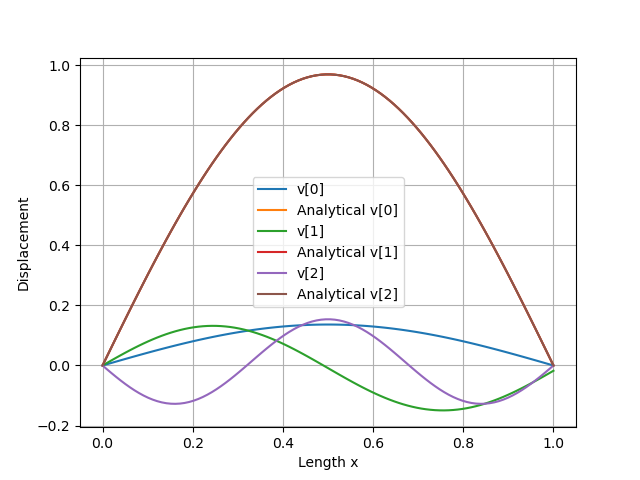
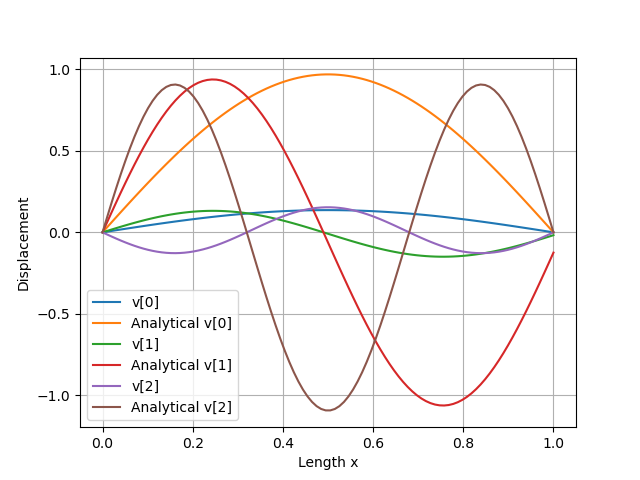
fix plot_last and figures

diff --git a/project_2/plot_last.py b/project_2/plot_last.py
@@ -28,7 +28,6 @@ def magic(filename):
     lambda_ = lambda_[:-1]
 
     lambda_, v = zip(*sorted(zip(lambda_, v))) # sort
-    print(v)
     #print(a)
     N = len(v)
     h = 1/(N+1)
@@ -40,18 +39,8 @@ def magic(filename):
     for i in range(1-1,N):
         v_py.append([])
         for j in range(1,N+1):
-            v_py[i].append(np.sin(j*np.pi/(N + 1)))
-    print(v_py)
+            v_py[i].append(np.sin((i+1)*j*np.pi/(N + 1)))
 
-    """
-    def lowest(a, n): return np.partition(a, n-1)[:n] # find smalles 3 values
-    smoll = lowest(v_py, 3)
-    i_0 = np.where(v_py == smoll[0])[0][0]
-    i_1 = np.where(v_py == smoll[1])[0][0]
-    i_2 = np.where(v_py == smoll[2])[0][0]
-    i_a = [i_0, i_1, i_2] # analytical vectors
-    print(i_a)
-    """
     lambda_py, v_py = zip(*sorted(zip(lambda_py, v_py)))
 
     x = []
